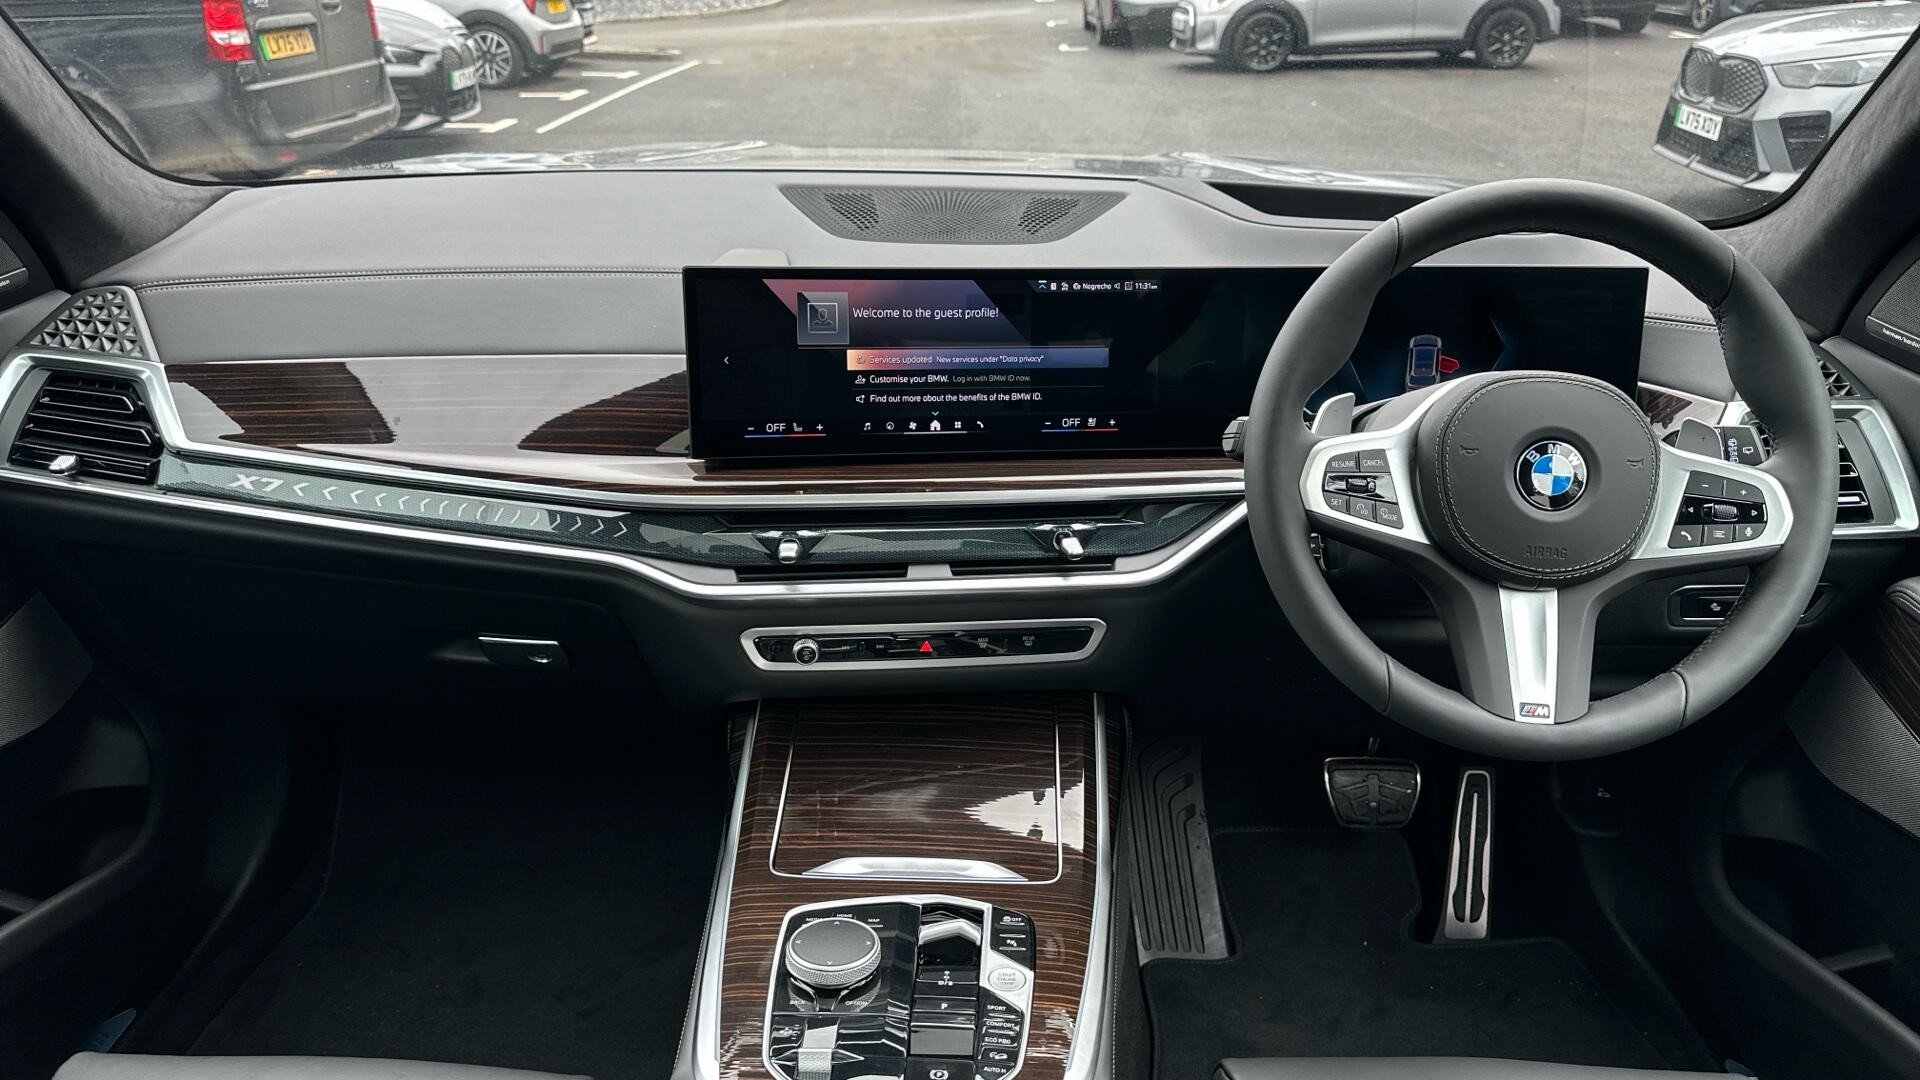
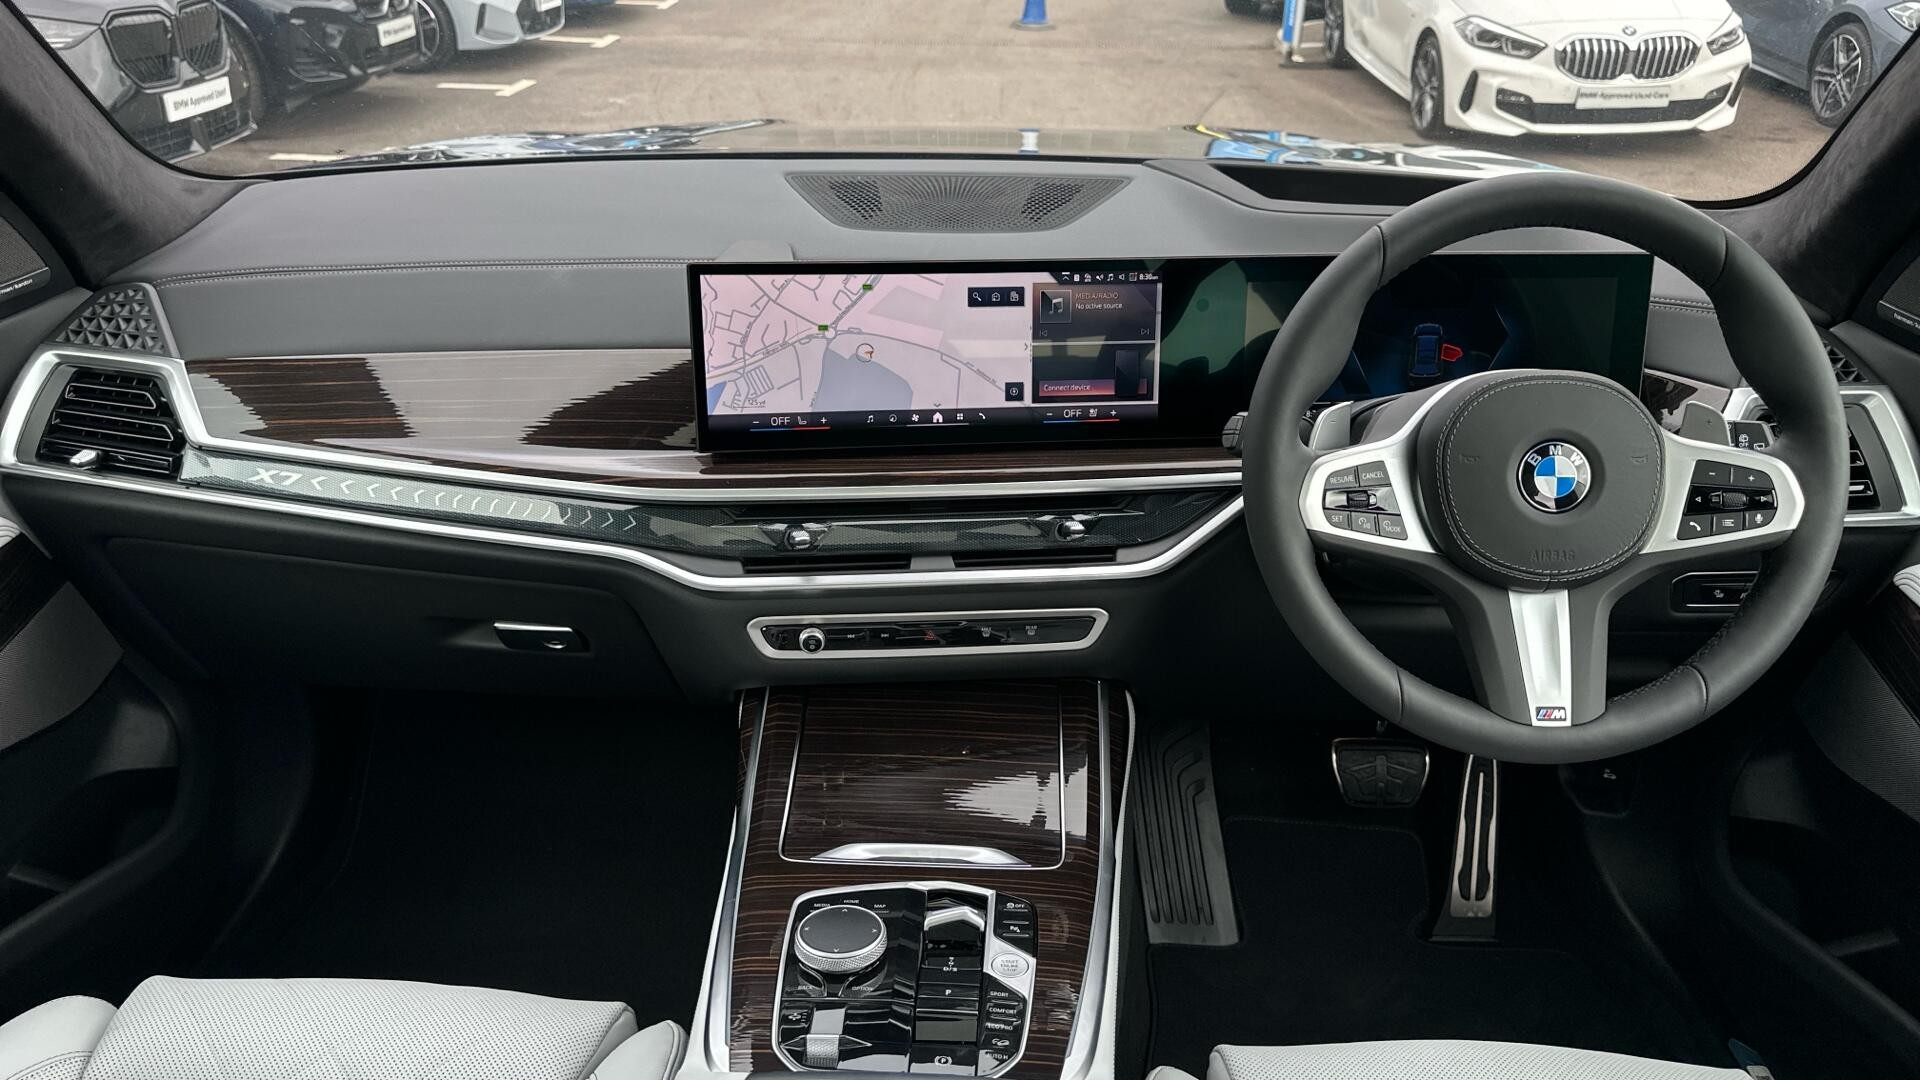
Refresh offers.html stock: swap sold X7, update 4 prices
- X7 xDrive40d M Sport (LX26FXD) sold - replaced with a comparable
  in-stock X7 xDrive40d M Sport (LY26RVR, £79,995, 3,000 miles),
  new photos verified against the listing's plate
- M4 Competition Convertible (LY75TSV): £67,749 -> £67,175
- M3 Competition Saloon (LV26GXM): £74,596 -> £74,479
- M340i xDrive Touring (LV72CXC): £38,602 -> £38,678
- M440i xDrive Gran Coupe (LY75NUW): £50,495 -> £49,834
- X5 xDrive50e M Sport and iX3 M Sport Pro unchanged, verified live

Claude-Session: https://claude.ai/code/session_01NxKd3QDHTtr9AiMAKitzhU

diff --git a/offers.html b/offers.html
@@ -77,7 +77,7 @@
         <!-- X7 xDRIVE40d M SPORT -->
         <article class="stock-card reveal">
           <div class="stock-gallery">
-            <img class="stock-main" id="x7-main" src="assets/x7-1.jpg" alt="2026 BMW X7 xDrive40d M Sport LX26FXD" loading="eager"/>
+            <img class="stock-main" id="x7-main" src="assets/x7-1.jpg" alt="2026 BMW X7 xDrive40d M Sport LY26RVR" loading="eager"/>
           </div>
           <div class="stock-thumbs">
             <button class="stock-thumb active" onclick="switchImg(this,'assets/x7-1.jpg','x7-main')" aria-label="Photo 1"><img src="assets/x7-1.jpg" alt="" aria-hidden="true"/></button>
@@ -86,20 +86,20 @@
             <button class="stock-thumb" onclick="switchImg(this,'assets/x7-4.jpg','x7-main')" aria-label="Photo 4"><img src="assets/x7-4.jpg" alt="" aria-hidden="true"/></button>
           </div>
           <div class="stock-body">
-            <div class="stock-meta">2026 &middot; LX26FXD</div>
+            <div class="stock-meta">2026 &middot; LY26RVR</div>
             <h3>BMW X7 xDrive40d M Sport</h3>
-            <div class="stock-price"><small>Price</small>&pound;76,495</div>
+            <div class="stock-price"><small>Price</small>&pound;79,995</div>
             <div class="stock-spec">
-              <span><strong>3,452</strong> miles</span>
+              <span><strong>3,000</strong> miles</span>
               <span><strong>351</strong> hp</span>
               <span><strong>7</strong> seats</span>
               <span><strong>AWD</strong></span>
             </div>
-            <p class="stock-features">23&rdquo; V-spoke BMW Individual wheels, Active Guard, anthracite Alcantara headlining, BMW Emergency Call, BMW Online Services, ambient lighting</p>
+            <p class="stock-features">22&rdquo; V-spoke Style 755 M Jet Black wheels, Active Guard, anthracite Alcantara headlining, BMW Emergency Call, Sky Lounge panoramic sunroof, ambient lighting</p>
             <div class="stock-ctas">
-              <a class="btn-quiet" href="https://wa.me/447827138197?text=Hi%20Dan%2C%20I%20saw%20the%202026%20X7%20xDrive40d%20M%20Sport%20%28LX26FXD%29%20on%20your%20Available%20Now%20page.%20Can%20you%20tell%20me%20more%3F" target="_blank" rel="noopener">WhatsApp Dan</a>
-              <button type="button" class="btn-quiet" onclick="phOpenContact('Hello Dan, I would like to check availability on the 2026 BMW X7 xDrive40d M Sport (LX26FXD, £76,495).')">Email Dan</button>
-              <a class="btn-quiet" href="https://hedinautomotive.co.uk/buy-car/used-cars/237425/pb-bmw-x7-2026" target="_blank" rel="noopener">Full listing</a>
+              <a class="btn-quiet" href="https://wa.me/447827138197?text=Hi%20Dan%2C%20I%20saw%20the%202026%20X7%20xDrive40d%20M%20Sport%20%28LY26RVR%29%20on%20your%20Available%20Now%20page.%20Can%20you%20tell%20me%20more%3F" target="_blank" rel="noopener">WhatsApp Dan</a>
+              <button type="button" class="btn-quiet" onclick="phOpenContact('Hello Dan, I would like to check availability on the 2026 BMW X7 xDrive40d M Sport (LY26RVR, £79,995).')">Email Dan</button>
+              <a class="btn-quiet" href="https://hedinautomotive.co.uk/buy-car/used-cars/247743/pb-bmw-x7-2026" target="_blank" rel="noopener">Full listing</a>
             </div>
           </div>
         </article>
@@ -148,7 +148,7 @@
           <div class="stock-body">
             <div class="stock-meta">2026 &middot; LY75TSV</div>
             <h3>BMW M4 Competition M xDrive Convertible</h3>
-            <div class="stock-price"><small>Price</small>&pound;67,749</div>
+            <div class="stock-price"><small>Price</small>&pound;67,175</div>
             <div class="stock-spec">
               <span><strong>5,584</strong> miles</span>
               <span><strong>530</strong> hp</span>
@@ -158,7 +158,7 @@
             <p class="stock-features">19&rdquo;/20&rdquo; M double-spoke Jet Black alloys, Active Guard, Active Pedestrian Safety, adaptive LED headlights, aluminium interior trim, anthracite headlining</p>
             <div class="stock-ctas">
               <a class="btn-quiet" href="https://wa.me/447827138197?text=Hi%20Dan%2C%20I%20saw%20the%202026%20M4%20Competition%20M%20xDrive%20Convertible%20%28LY75TSV%29%20on%20your%20Available%20Now%20page.%20Can%20you%20tell%20me%20more%3F" target="_blank" rel="noopener">WhatsApp Dan</a>
-              <button type="button" class="btn-quiet" onclick="phOpenContact('Hello Dan, I would like to check availability on the 2026 BMW M4 Competition M xDrive Convertible (LY75TSV, £67,749).')">Email Dan</button>
+              <button type="button" class="btn-quiet" onclick="phOpenContact('Hello Dan, I would like to check availability on the 2026 BMW M4 Competition M xDrive Convertible (LY75TSV, £67,175).')">Email Dan</button>
               <a class="btn-quiet" href="https://hedinautomotive.co.uk/buy-car/used-cars/241288/pb-bmw-m4-2026" target="_blank" rel="noopener">Full listing</a>
             </div>
           </div>
@@ -178,7 +178,7 @@
           <div class="stock-body">
             <div class="stock-meta">2026 &middot; LV26GXM</div>
             <h3>BMW M3 Competition M xDrive Saloon</h3>
-            <div class="stock-price"><small>Price</small>&pound;74,596</div>
+            <div class="stock-price"><small>Price</small>&pound;74,479</div>
             <div class="stock-spec">
               <span><strong>5,748</strong> miles</span>
               <span><strong>530</strong> hp</span>
@@ -188,7 +188,7 @@
             <p class="stock-features">19&rdquo;/20&rdquo; 826 M double-spoke bicolour wheels, M Carbon exterior styling, M brakes with red calipers, adaptive LED headlights, Parking Assistant Plus, anthracite headlining</p>
             <div class="stock-ctas">
               <a class="btn-quiet" href="https://wa.me/447827138197?text=Hi%20Dan%2C%20I%20saw%20the%202026%20M3%20Competition%20M%20xDrive%20Saloon%20%28LV26GXM%29%20on%20your%20Available%20Now%20page.%20Can%20you%20tell%20me%20more%3F" target="_blank" rel="noopener">WhatsApp Dan</a>
-              <button type="button" class="btn-quiet" onclick="phOpenContact('Hello Dan, I would like to check availability on the 2026 BMW M3 Competition M xDrive Saloon (LV26GXM, £74,596).')">Email Dan</button>
+              <button type="button" class="btn-quiet" onclick="phOpenContact('Hello Dan, I would like to check availability on the 2026 BMW M3 Competition M xDrive Saloon (LV26GXM, £74,479).')">Email Dan</button>
               <a class="btn-quiet" href="https://hedinautomotive.co.uk/buy-car/used-cars/247767/pb-bmw-m3-2026" target="_blank" rel="noopener">Full listing</a>
             </div>
           </div>
@@ -208,7 +208,7 @@
           <div class="stock-body">
             <div class="stock-meta">2022 &middot; LV72CXC</div>
             <h3>BMW M340i xDrive Touring</h3>
-            <div class="stock-price"><small>Price</small>&pound;38,602</div>
+            <div class="stock-price"><small>Price</small>&pound;38,678</div>
             <div class="stock-spec">
               <span><strong>26,055</strong> miles</span>
               <span><strong>374</strong> hp</span>
@@ -218,7 +218,7 @@
             <p class="stock-features">19&rdquo; M double-spoke Jet Black alloys, adaptive LED headlights, Parking Assistant with reversing camera, front &amp; rear parking sensors, Shadowline Plus Pack, acoustic glass</p>
             <div class="stock-ctas">
               <a class="btn-quiet" href="https://wa.me/447827138197?text=Hi%20Dan%2C%20I%20saw%20the%202022%20M340i%20xDrive%20Touring%20%28LV72CXC%29%20on%20your%20Available%20Now%20page.%20Can%20you%20tell%20me%20more%3F" target="_blank" rel="noopener">WhatsApp Dan</a>
-              <button type="button" class="btn-quiet" onclick="phOpenContact('Hello Dan, I would like to check availability on the 2022 BMW M340i xDrive Touring (LV72CXC, £38,602).')">Email Dan</button>
+              <button type="button" class="btn-quiet" onclick="phOpenContact('Hello Dan, I would like to check availability on the 2022 BMW M340i xDrive Touring (LV72CXC, £38,678).')">Email Dan</button>
               <a class="btn-quiet" href="https://hedinautomotive.co.uk/buy-car/used-cars/232930/pb-bmw-320-2022" target="_blank" rel="noopener">Full listing</a>
             </div>
           </div>
@@ -238,7 +238,7 @@
           <div class="stock-body">
             <div class="stock-meta">2025 &middot; LY75NUW</div>
             <h3>BMW M440i xDrive Gran Coupe</h3>
-            <div class="stock-price"><small>Price</small>&pound;50,495</div>
+            <div class="stock-price"><small>Price</small>&pound;49,834</div>
             <div class="stock-spec">
               <span><strong>3,321</strong> miles</span>
               <span><strong>374</strong> hp</span>
@@ -248,7 +248,7 @@
             <p class="stock-features">20&rdquo; M Individual bicolour alloys, M Sport Pro Pack, Harman Kardon surround sound, adaptive M suspension, BMW Curved Display, heated steering wheel</p>
             <div class="stock-ctas">
               <a class="btn-quiet" href="https://wa.me/447827138197?text=Hi%20Dan%2C%20I%20saw%20the%202025%20M440i%20xDrive%20Gran%20Coupe%20%28LY75NUW%29%20on%20your%20Available%20Now%20page.%20Can%20you%20tell%20me%20more%3F" target="_blank" rel="noopener">WhatsApp Dan</a>
-              <button type="button" class="btn-quiet" onclick="phOpenContact('Hello Dan, I would like to check availability on the 2025 BMW M440i xDrive Gran Coupe (LY75NUW, £50,495).')">Email Dan</button>
+              <button type="button" class="btn-quiet" onclick="phOpenContact('Hello Dan, I would like to check availability on the 2025 BMW M440i xDrive Gran Coupe (LY75NUW, £49,834).')">Email Dan</button>
               <a class="btn-quiet" href="https://hedinautomotive.co.uk/buy-car/used-cars/242787/pb-bmw-m440-2025" target="_blank" rel="noopener">Full listing</a>
             </div>
           </div>
